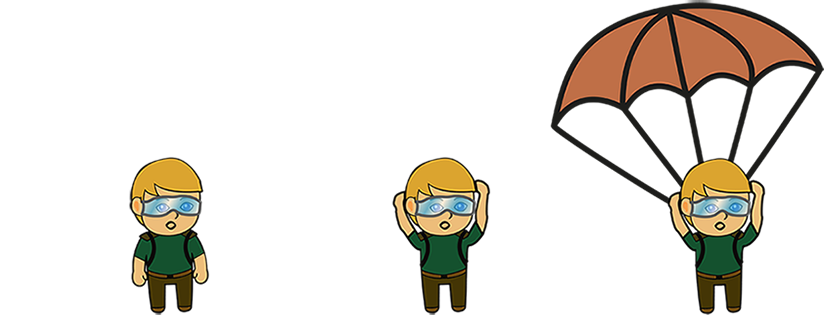
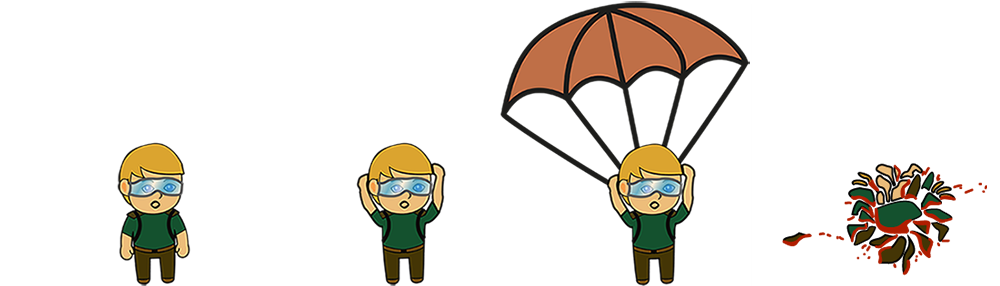
flyhigh150628

diff --git a/game.js b/game.js
@@ -4,43 +4,62 @@
 function playGame() {
 
     var game = new Phaser.Game(1024, 630, Phaser.AUTO, '', { preload: preload, create: create, update: update, render: render });
+    //  The Google WebFont Loader will look for this object, so create it before loading the script.
+    WebFontConfig = {
 
+        //  'active' means all requested fonts have finished loading
+        //  We set a 1 second delay before calling 'createText'.
+        //  For some reason if we don't the browser cannot render the text the first time it's created.
+        active: function() { game.time.events.add(Phaser.Timer.SECOND, createText, this); },
+
+        //  The Google Fonts we want to load (specify as many as you like in the array)
+        google: {
+          families: [ 'Amatic+SC::latin' ]
+        }
+
+    };
     function preload() 
     {
         //  Load the Google WebFont Loader script
         game.load.script('webfont', '//ajax.googleapis.com/ajax/libs/webfont/1.4.7/webfont.js');
-
         game.load.image('ground', 'assets/ground.png');
-        game.load.image('bird', 'assets/bird.png');
-        game.load.spritesheet('dude', 'assets/player2.png', 275, 315, 3);
+        game.load.spritesheet('dude', 'assets/player3.png', 275, 315, 4);
         game.load.image('heli', 'assets/helicopter.png');
-        game.load.spritesheet('bird', 'assets/bird.png', 73, 51, 4)
+        game.load.spritesheet('bird', 'assets/birdi.png', 72, 51, 4)
         game.load.image('star', 'assets/star.png');
-    // ToDo: Bild aus AI neu abspeichern (groesser)
-        game.load.image('cloud', 'assets/cloud2.png');
+        game.load.image('cloud', 'assets/cloud.png');
     }
 
-    // anzahl der Weltgroesse/ Sprunghöhe (aendert sich im level)
+    // anzahl der Weltgroesse/ Sprunghöhe (erhoeht sich im level)
     var worldHeight = 3000;
     var player; 
-    // Fallgeschwindigkeit des Players (aendert sich im level)
+    // Fallgeschwindigkeit des Players (erhoeht sich im level)
     var playerGravity = 250;
     var fallschirmOffen = false; 
     var heli;
     var clouds;
     var birds;
-    // anzahl der voegel (aendert sich im level)
-    var birdLevel = 3;
-    var birddirection = 200;
-    var birdMove =true;
+    var reverseEnemyTriggers
+    // anzahl der voegel (erhoeht sich im level)
+    var birdCount = 3;
     var stars;
-    // anzahl der sterne (aendert sich im level)
-    var starlevel = 4;
+    // anzahl der sterne (erhoeht sich im level)
+    var starCount = 4;
 
+    var textSprite;
+    var level = 1;
+    var levelText;
     var cursors;
     var score = 0;
     var scoreText;
+    var lifes = 3;
+    var lifesText;
     var moveCamera=true;
+
+    var high = 550;
+    var meter = 8;
+    var text = null;
+    var grd;
 
     function create() 
     {
@@ -68,7 +87,7 @@ function playGame() {
         stars.enableBody = true;
 
         //  Here we'll create 12 of them evenly spaced apart
-        for (var i = 0; i < starlevel; i++)
+        for (var i = 0; i < starCount; i++)
         {
             //  Create a star inside of the 'stars' group
             var star = stars.create(i * Math.random()*500+100, i * Math.random()*700+700, 'star');
@@ -84,10 +103,11 @@ function playGame() {
         player = game.add.sprite(game.world.width+390, 0, 'dude');
 
         //player sprite wird verschoben
-        player.animations.add('up', [0, 1], 3, true);
-        player.animations.add('left', [1, 0], 3, true);
-        player.animations.add('right', [1, 0], 3, true);
-        player.animations.add('down', [2], 3, true);
+        player.animations.add('left', [1], 4, true);
+        player.animations.add('right', [1], 4, true);
+        player.animations.add('down', [2], 4, true);
+        player.animations.add('dead', [3], 4, true);
+        player.animations.add('up', [0], 4, true);
 
         //  We need to enable physics on the player
         game.physics.arcade.enable(player);
@@ -99,130 +119,116 @@ function playGame() {
         birds = game.add.group();
         game.physics.arcade.enable(birds);
         birds.enableBody = true;
+        birds.physicsBodyType = Phaser.Physics.ARCADE;
 
-        //  Here we'll create 3 left of them evenly spaced apart
-        for (var i = 0; i < birdLevel; i++)
+
+        for (var i = 0; i < birdCount; i++)
         {
-            //  Create a star inside of the 'stars' group
-            var bird = birds.create(10, i * Math.random() *600 + 600, 'bird');
-            //bird sprite wird verschoben
-            bird.animations.add('right', [0, 1], 4, true);
-            bird.animations.add('left', [2, 3], 4, true);
-
-    // ToDo: Bird kehrt nicht in der mitte der Welt um sondern fliegt durch 
-            //bird.body.velocity.x = 0;
-            bird.body.velocity.x = birddirection;
-
-            if (bird.body.x>=game.world.centerX)
-            {
-                birddirection = -200;
-                bird.animations.play('left');
-            }
-            else if (bird.body.x<=20)
-            {
-                birddirection = 200;
-                bird.animations.play('right');
-            } 
-            
+            //  Create the birds
+            var bird = birds.create(0, i * Math.random() *600 + 600, 'bird', 0);
+            bird.body.velocity.x = 50;
         }
+        birds.callAll('animations.add', 'animations', 'right', [0, 1], 4, true);
+        birds.callAll('animations.add', 'animations', 'left', [2, 3], 4, true);
+ 
+        
+        //  And play them
+        birds.callAll('animations.play', 'animations', 'right');
+        
 
         game.camera.follow(player);
 
+        var style = { font: "55px", fill: "#0C96CD"};
         //  The score
     // ToDo: der Score ist momentan noch fest prositioniert - soll aber dem Player folgen
-        scoreText = game.add.text(16, 16, 'score: 0', { families: [ 'Amatic+SC::latin' ], fontSize: '64px', fill: '#000' });
-         
+        
+
         //  Our controls.
         cursors = game.input.keyboard.createCursorKeys();
 
+    }
+    function createText() {
+        text = game.add.text(0,0, 'Level: ' + level + '       Sterne: ' + score + '       Leben: ' + lifes);
+
+        text.font = 'Amatic SC';
+        text.fontSize = 30;
+
+        textSprite = game.add.sprite(15, 20, null);
+        textSprite.addChild(text);
+
+        game.physics.enable(textSprite, Phaser.Physics.ARCADE);
+        textSprite.body.gravity.y = 0;
+
+         for (var i = 1; i < 6; i++)
+        {
+            var highText = game.add.text(950, game.world.height-high, ' ' + meter*i + ' m');
+            high += 500;
+            highText.font = 'Amatic SC';
+            highText.fontSize = 50;
+         }
     }
 
     function update() 
     {
        //  Reset the players velocity (movement)
         player.body.velocity.x = 0;
-        
         // Bounding-Box settings
         player.body.setSize(65, 150, 137, 161);
 
+        player.animations.play('up');
+
         //bei start kommt heli mit dude reingeflogen    
-        if (heli.x > game.world.centerX-200) 
+        if (heli.x > game.world.centerX-270) 
         {
-            //geschwindigkeit und position   
+            //geschwindigkeit und position     
             heli.x -= 4;
-            player.x -= 4;           
+            player.x -= 4;
         }
         
         //Player springt los, erst wenn der heli angekommen ist
         if (cursors.down.isDown && heli.x<=game.world.centerX-200)
-        {
+        { 
             //  Player physics properties. Give the little guy a slight bounce.
-            player.body.bounce.y = 0.1;
+            if (fallschirmOffen == true) {
+                player.body.bounce.y = 0.1;
+            }
             player.body.gravity.y = playerGravity;
             player.body.collideWorldBounds = true;
-            player.frame = 3;
+            textSprite.body.gravity.y = playerGravity;
         }
-
-        // bird fliegen lassen
-        /*if (bird.body.x>=game.world.centerX)
-        {
-            birddirection = -200;
-            bird.animations.play('left');
-        }
-        else if (bird.body.x<=20)
-        {
-            birddirection = 200;
-            bird.animations.play('right');
-        } 
-        bird.body.velocity.x = birddirection;*/
-
-        // bird fliegen lassen
-        
 
         //cursor bewegen, wenn er gefallen ist
         if (cursors.left.isDown && player.body.gravity.y == playerGravity)
         {
             //  Move to the left
-            player.body.velocity.x = -250;
+            player.body.velocity.x = -300;
             player.animations.play('left');
         }
         else if (cursors.right.isDown && player.body.gravity.y == playerGravity)
         {
             //  Move to the right
-            player.body.velocity.x = 250;
+            player.body.velocity.x = 300;
             player.animations.play('right');
-        }
-        else
-        {
-            //  Stand still
-            player.animations.stop();
-            player.frame = 3;
         }
 
         // Fallschirm oeffnen sobald Ground sichtbar ist
         if (cursors.up.isDown && player.body.y >= game.world.height-600)
         {
+            textSprite.body.gravity.y = 0;
             player.body.velocity.y = 180;
             player.animations.play('down');
-            game.add.text(game.world.centerX, game.world.height-500, 'Gewonnen', { fontSize: '64px', fill: '#000' });
             fallschirmOffen = true; 
         } 
-        else if (player.body.y >= game.world.height-120 && fallschirmOffen == false) {
-// hier kommt zusaetzlich noch ein plattes totes maennchen ;)
-            game.add.text(game.world.centerX, game.world.height-500, 'Tot', { fontSize: '64px', fill: '#000' });
-        }
-
-        if ((cursors.left.isDown || cursors.right.isDown) && player.body.y >= game.world.height-200 && fallschirmOffen == true)
-        {
-            player.animations.play('down');
-        } 
-        else
-        {
-            //  Stand still
+        else if (fallschirmOffen == false && player.body.y >= game.world.height-150) {
+            textSprite.body.gravity.y = 0;
             player.animations.stop();
             player.frame = 3;
         }
-        
+
+        if (fallschirmOffen == true)
+        {
+            player.animations.play('down');
+        }        
 
         if (game.camera.view.y<2400 && moveCamera==true)
         {
@@ -250,15 +256,25 @@ function playGame() {
         // Removes the star from the screen
         star.kill();
 
-        //  Add and update the score
-        score += 10;
-        scoreText.text = 'Score: ' + score;
+        //  Add and update the starScore
+        score += 1;
+        scoreText.text = 'Sterne: ' + score;
+        for (var i = 1; i < 10; i++)
+        {
+            if (score >=3*i) {
+                lifes += 1;
+                lifesText.text = 'Leben: ' + lifes;
+            }
+        }
     }
 
     function collideBird (player, birds) 
     {
         // Removes the player from the screen
-        player.kill();
-        game.add.text(game.world.centerX, player.body.y+300, 'Tot', { fontSize: '64px', fill: '#000' });
+        player.animations.play('dead');
+        game.time.events.add(250, function() {
+            player.kill();
+            birds.kill();
+        })
     }
 }
